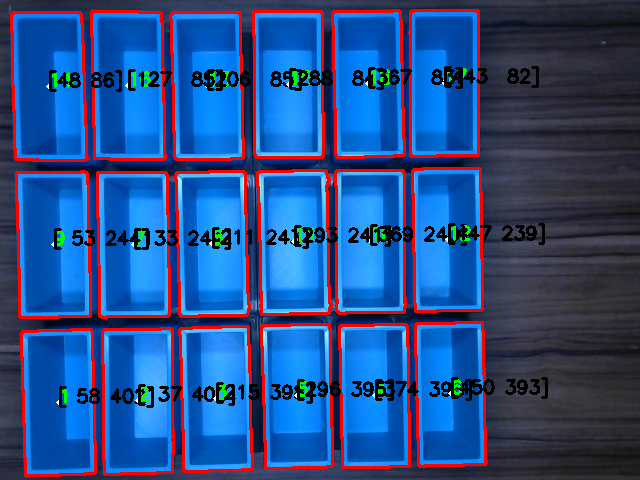
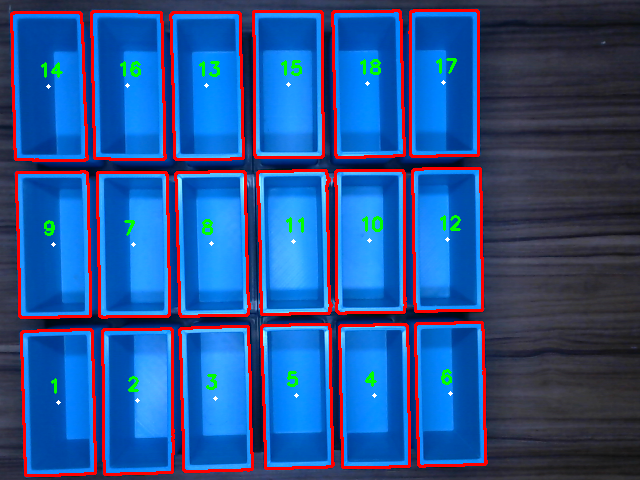
orignal

diff --git a/MainPackage/ImageProcessing/TrayFinder3.py b/MainPackage/ImageProcessing/TrayFinder3.py
@@ -1,14 +1,14 @@
-import matplotlib.pyplot as plt
 import cv2
 import numpy as np
-import imutils
-import glob
+import matplotlib.pyplot as plt
 import pandas as pd
-import pickle
 
 class TrayFinder:
-    def __init__(self, file_path):
-        self.image = cv2.imread(str(file_path))
+    def __init__(self, file_path=None):
+        if file_path != None:
+            self.image = cv2.imread(str(file_path))
+        else:
+            self.image = self.capture_image()
         self.blur = None
         self.gray = None
         self.mask = None
@@ -16,30 +16,6 @@ class TrayFinder:
         self.contoured_image = None
         self.merr = None
     
-    def Undistorted(self, image):
-        with open('MainPackage/ImageProcessing/CalibrationMatrices/cameraMatrix.pkl', 'rb') as f1:
-            cameraMatrix = pickle.load(f1)
-        
-        with open('/MainPackage/ImageProcessing/CalibrationMatrices/dist.pkl', 'rb') as f2:
-            dist = pickle.load(f2)
-        
-        h, w = image.shape[:2]
-        newCameraMatrix, roi = cv2.getOptimalNewCameraMatrix(cameraMatrix, dist, (w,h), 1, (w,h))
-        #undistort
-        dst = cv2.undistort(image, cameraMatrix, dist, None, newCameraMatrix)
-        #crop the image
-        x, y, w, h = roi
-        dst = dst[y:y+h, x:x+w]
-        cv2.imwrite('caliResult1.png', dst)
-
-        mapx, mapy = cv2.initUndistortRectifyMap(cameraMatrix, dist, None, newCameraMatrix, (w,h), 5)
-        dst = cv2.remap(image, mapx, mapy, cv2.INTER_LINEAR)
-
-        # crop the image
-        x, y, w, h = roi
-        dst = dst[y:y+h, x:x+w]
-        cv2.imwrite('caliResult2.png', dst)
-
     #Image processing
     def HSV_threshold(self):
         self.gray = cv2.cvtColor(self.image, cv2.COLOR_BGR2HSV)
@@ -82,7 +58,7 @@ class TrayFinder:
         for i in range(len(self.merr)):
             cv2.putText(self.contoured_image, str(i+1), (self.merr[i] - 10), cv2.FONT_HERSHEY_SIMPLEX, 0.6, (0, 255, 0), 2)
             cv2.circle(self.contoured_image, (self.merr[i]), radius=2, color=(255, 255, 255), thickness=-1)
-            # cv2.putText(self.contoured_image, str(merr[i]), (merr[i]), cv2.FONT_HERSHEY_SIMPLEX, 0.4, (255, 255, 255), 2)
+            # cv2.putText(self.contoured_image, str(merr[i]), (merr[i]), cv2.FONT_HERSHEY_SIMPLEX, 0.4, (255, 255, 255), 2
 
     def point_filtering(self, areas, midpoint):
         areas = np.array(areas)
@@ -99,17 +75,6 @@ class TrayFinder:
                 # print(i, areas[i], midpoint[i])
                 aerr.append(i)
                 merr.append(midpoint[i])
-            # elif areas[i] < (np.mean(areas) - (np.mean(areas)*(0.2))):
-            #     aerr.append(i)
-            # elif areas[i] == 0:
-            #     aerr.append(i)
-        # filtered_areas = [value for index, value in enumerate(areas) if index not in aerr]
-        # print('filtered area errors',filtered_areas)
-        # filtered_midpoint = [value for index, value in enumerate(midpoint) if index not in aerr]
-        # print(len(filtered_midpoint))
-        # for point in merr:
-        #     print(point)
-        # merr = self.sort_point(merr)
 
         return merr, aerr
 
@@ -120,6 +85,9 @@ class TrayFinder:
         #     print(points[i], sum_value[i], sorted_value[i], i+1)
         return sorted_value
             
+    def export_points(self, points, name):
+        data = pd.DataFrame(points)
+        data.to_csv(name, index=False)
 
     def ShowImage(self, window_name, image):
         plt.title(window_name)
@@ -132,32 +100,30 @@ class TrayFinder:
     def Save_Image(self, file_name, image):
         cv2.imwrite(file_name, image)
 
-    def export_points(self, points, name):
-        data = pd.DataFrame(points)
-        data.to_csv(name, index=False)
+    # def show(self):
+    #     print(self.file_path)
+    def capture_image(self):
+        cap = cv2.VideoCapture(0)
+
+        if not cap.isOpened():
+            print("Error: Unable to open camera.")
+            return
+        
+        ret, frame = cap.read()
+
+        if not ret:
+            print("Error Unable to capture frame")
+            cap.release()
+            return None
+        
+        cap.release()
+
+        return frame
 
 if __name__ == '__main__':
-    # Find = TrayFinder(file_path='C:/Project/FinalProject/Images/test_image_cam_jig2_0.png')
-    # mid_points = Find.FindMidpoint()
-    # mid_points.sort(axis=1)
-    # print(mid_points)
-    # Find.FindMidpoint()
-    # Find.ShowImage('midpoints', Find.contoured_image)
-    # Find.ShowImage('blur', Find.morph)
-    paths = glob.glob("C:/Project/FinalProject/MainPackage/ImageProcessing/images/*.png")
-    count = 0
-    # Test1 = TrayFinder(paths[4])
-    # mid = Test1.FindMidpoint()
-    for file_path in paths:
-        count += 1
-        tray_finder = TrayFinder(file_path)
-        tray_finder.FindMidpoint()
-        tray_finder.ShowImage(f'midpoint{count}', tray_finder.contoured_image)
-        # tray_finder.ShowImage(f'gray{count}', tray_finder.morph)
-        tray_finder.Save_Image(f'result{count}.png', tray_finder.contoured_image)
-        tray_finder.export_points(name = f'result{count}.csv', points= tray_finder.merr)
-    # test1 = TrayFinder(paths[0])
-    # test1.FindMidpoint()
-    # test1.ShowImage('test1', test1.contoured_image)
-    # test1.Save_Image('resultX.png', test1.contoured_image)
-    
+    tray_finder = TrayFinder()
+    tray_finder.ShowImage('raw image', image=tray_finder.image)
+    tray_finder.FindMidpoint()
+    tray_finder.ShowImage('midpoints', image=tray_finder.contoured_image)
+    tray_finder.Save_Image('result.png', image=tray_finder.contoured_image)
+    tray_finder.export_point(points= tray_finder.merr, name='points.csv')
